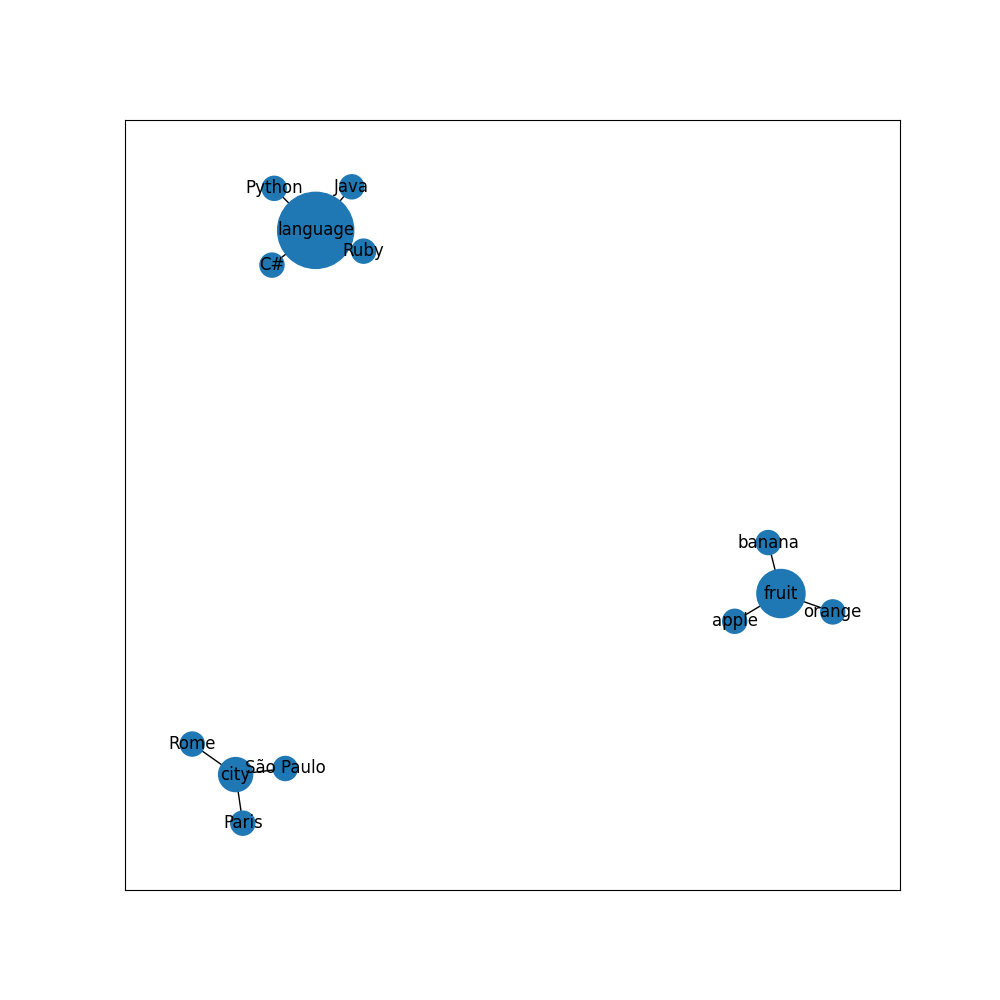
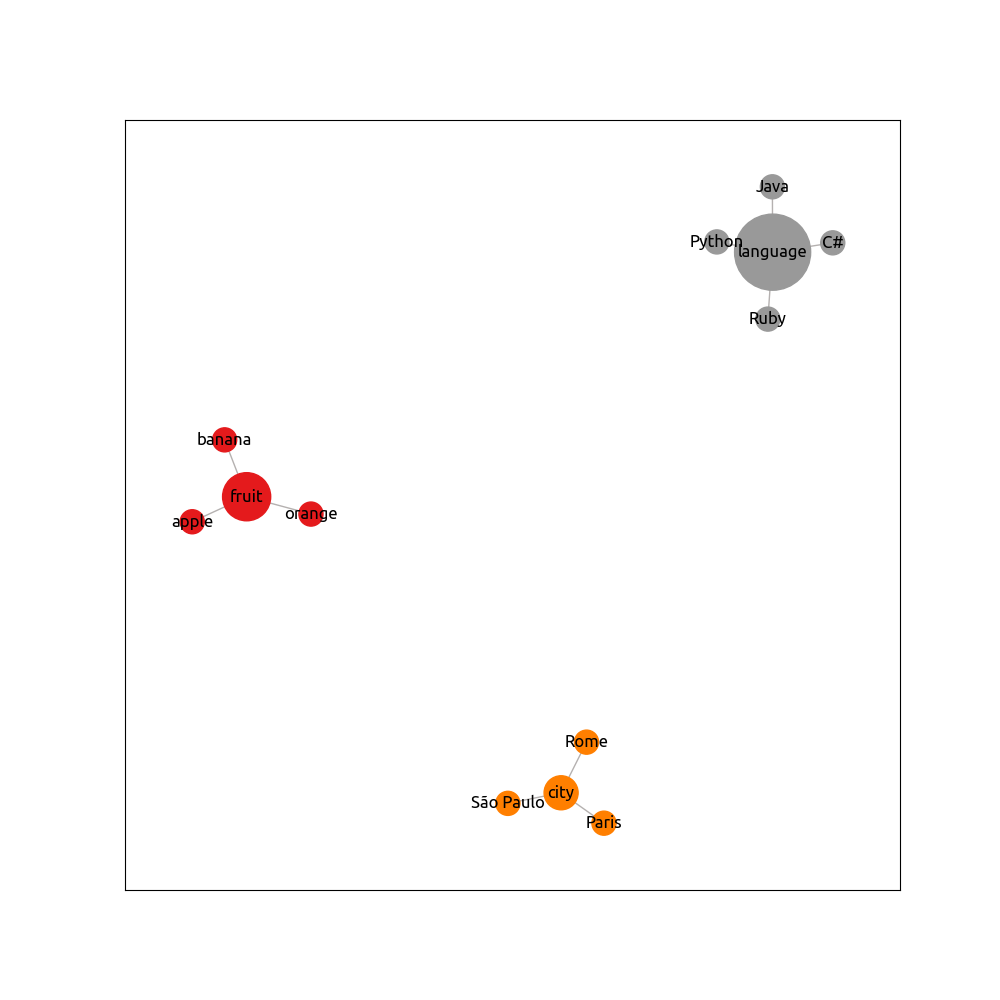
Customizing plot

diff --git a/src/nlp/visualization.py b/src/nlp/visualization.py
@@ -2,40 +2,36 @@ import networkx as nx
 from mycolorpy import colorlist as mcp
 import matplotlib.pyplot as plt
 
-# Cada ponto central será um dos 5 termos de maior TF-IDF. 
-# As conexões são as palavras próximas obtidas em 4.5. 
+# Cada ponto central será um dos 5 termos de maior TF-IDF.
+# As conexões são as palavras próximas obtidas em 4.5.
 
-words_and_connections = {"fruit": {"weight": 4, "neighbors": ["apple", "orange", "banana"]}, \
-    "city": {"weight": 2, "neighbors": ["São Paulo", "Paris", "Rome"]}, \
-    "language": {"weight": 10, "neighbors": ["Python", "Java", "C#", "Ruby"]}}
-nodes = []
+words_and_connections = {"fruit": {"weight": 4, "neighbors": ["apple", "orange", "banana"]},
+                         "city": {"weight": 2, "neighbors": ["São Paulo", "Paris", "Rome"]},
+                         "language": {"weight": 10, "neighbors": ["Python", "Java", "C#", "Ruby"]}}
+
 egdes = []
 
 g = nx.Graph()
-colors = color1=mcp.gen_color(cmap="winter",n=len(words_and_connections))
+colors = color1 = mcp.gen_color(cmap="Set1", n=len(words_and_connections))
+#print(colors)
+
 for word, color in zip(words_and_connections, colors):
-    #nodes.append(word)
     for n in words_and_connections[word]["neighbors"]:
-        #nodes.append(n)
         g.add_edge(word, n, weight=1)
         g.nodes[n]['weight'] = 300
-        g.nodes[n]['corlo'] = color
+        g.nodes[n]['color'] = color
     g.nodes[word]['weight'] = words_and_connections[word]['weight']*300
+    g.nodes[word]['color'] = color
 
-plt.figure(figsize=(10,10))
-
-edge_weight = list(nx.get_edge_attributes(g,'weight').values())
-node_weight = list(nx.get_node_attributes(g,'weight').values())
-
-nx.draw_networkx(g, width=edge_weight, node_size=node_weight)
+node_colors = [g.nodes[word]['color'] for word in g.nodes]
 
 
-#g.add_nodes_from(nodes)
+plt.figure(figsize=(10, 10))
 
-#subax1 = plt.subplot(121)
-#nx.draw(g, with_labels=True, font_weight='bold')
-#subax2 = plt.subplot(122)
-#nx.draw_shell(G, nlist=[range(5, 10), range(5)], with_labels=True, font_weight='bold')
+edge_weight = list(nx.get_edge_attributes(g, 'weight').values())
+node_weight = list(nx.get_node_attributes(g, 'weight').values())
+
+nx.draw_networkx(g, width=edge_weight, node_size=node_weight, edge_color='#b5b1b0', node_color=node_colors, font_family = 'Ubuntu')
 
 # Se necessario, instalar o Tk:
 # UserWarning: Matplotlib is currently using agg, which is a non-GUI backend, so cannot show the figure.
